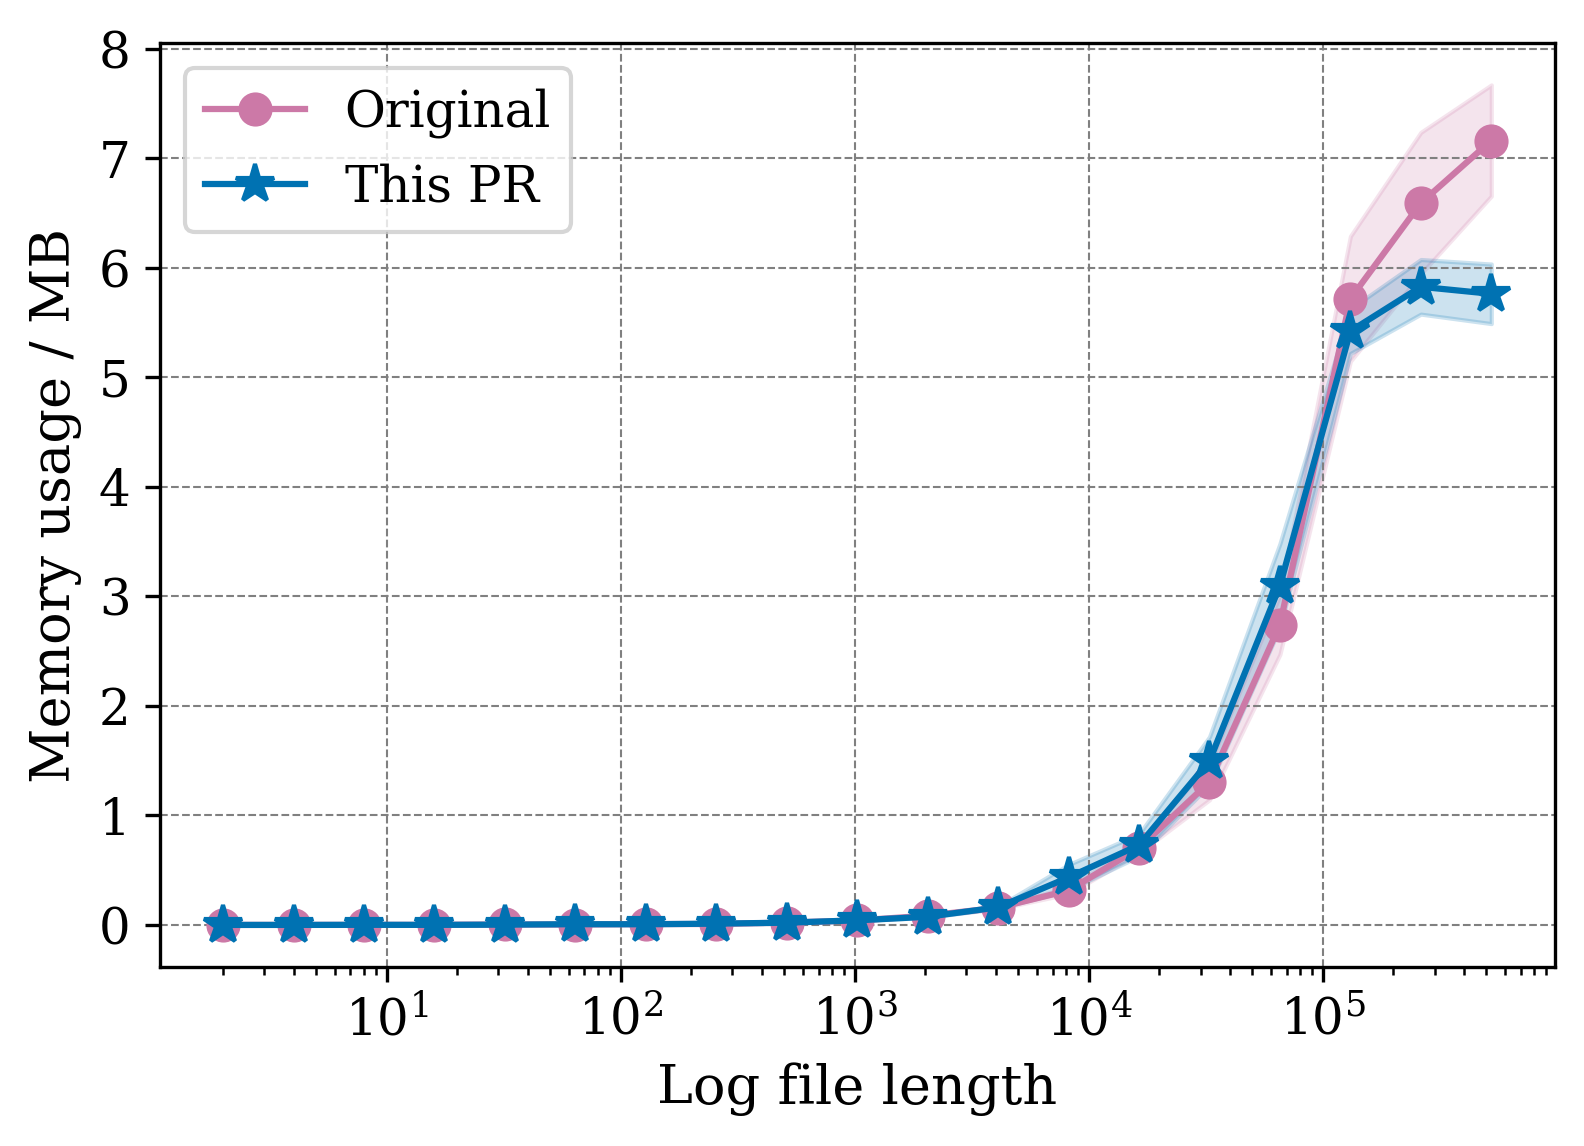
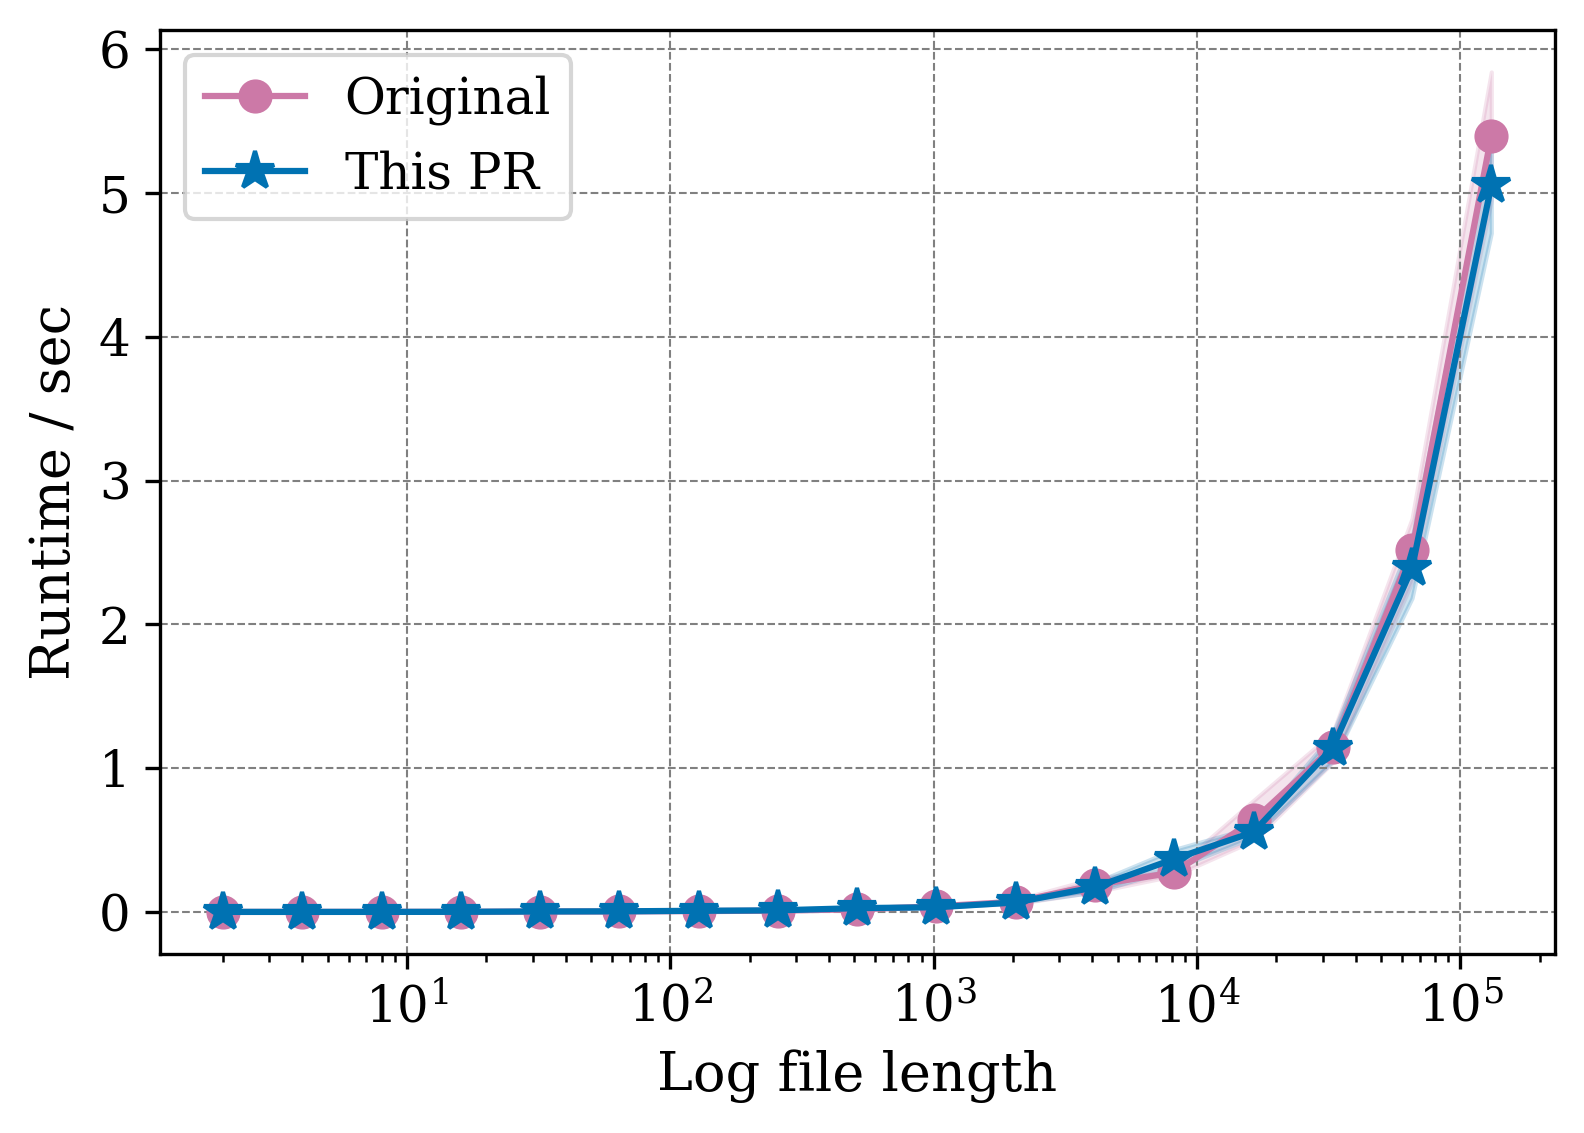
get chart of file length vs runtime for use-iterator-for-journalstorage

diff --git a/visualize.py b/visualize.py
@@ -7,7 +7,6 @@ import matplotlib.pyplot as plt
 import polars as pl
 
 
-# fp = font_manager.FontProperties(fname="/usr/share/fonts/TTF/Times.TTF")
 fp = font_manager.FontProperties(family="serif")
 
 
@@ -17,9 +16,6 @@ def _prepare_data(branch: str) -> pl.DataFrame:
         [
             pl.col("time").mean().alias("time_mean"),
             (pl.col("time").std() / pl.count("time").cast(pl.Float64).sqrt()).alias("time_se"),
-            # pl.col("after").mean().alias("after_mean"),
-            # (pl.col("after").std() / pl.count("after").cast(pl.Float64).sqrt()).alias("after_se"),
-
         ]
     ).sort("length")
 
@@ -57,7 +53,6 @@ def plot_results(
         loc="upper left",
         fontsize=12,
         prop=(
-            # font_manager.FontProperties(fname="/usr/share/fonts/TTF/Times.TTF", size=12)
             font_manager.FontProperties(family="serif", size=12)
         ),
     )
@@ -112,7 +107,7 @@ def main(args: Namespace) -> None:
             markers=maekers,
             marker_sizes=marker_sizes,
             xlabel="Log file length",
-            ylabel="Memory usage / MB",
+            ylabel="Runtime / sec",
             figsize=(6, 4),
         )
         fig.savefig(f"results/memory_apply_logs_{phase}.png", dpi=300, bbox_inches="tight")

diff --git a/use-iterator.py b/use-iterator.py
@@ -1,0 +1,13 @@
+import argparse
+
+import optuna
+import time
+
+
+def objective(trial: optuna.Trial) -> float:
+    x = trial.suggest_float("x", -10, 10)
+    return (x - 2) ** 2
+
+optuna.storages.JournalStorage(
+    optuna.storages.journal.JournalRedisBackend(f"redis://localhost:6379")
+)
